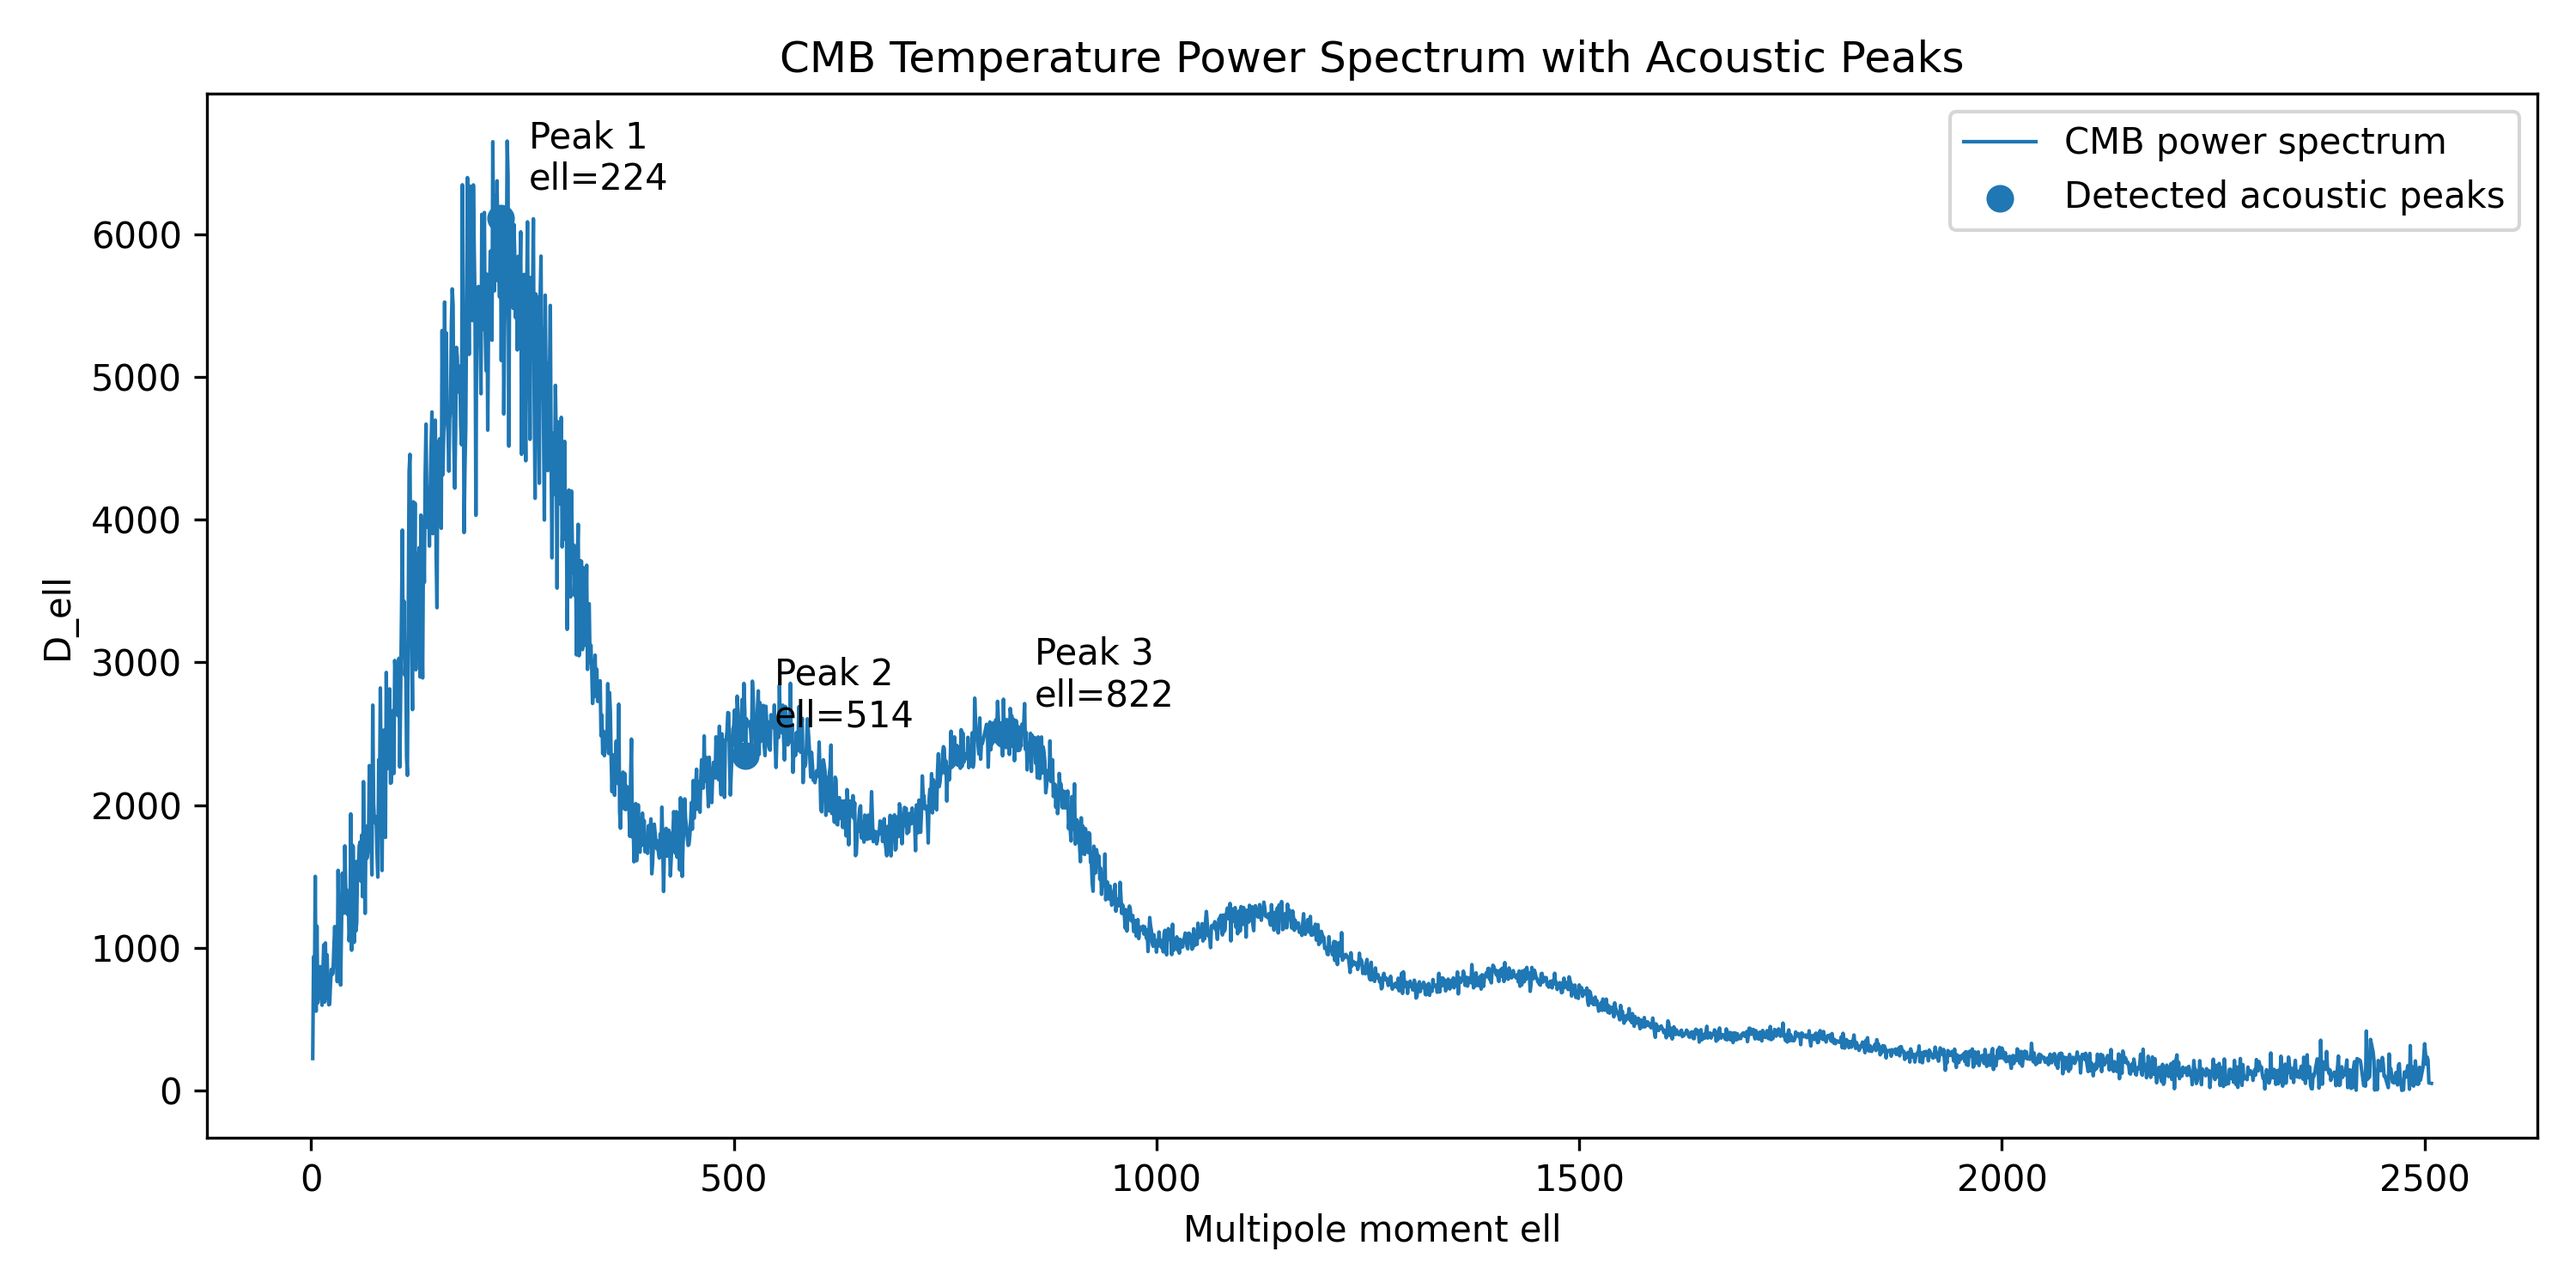
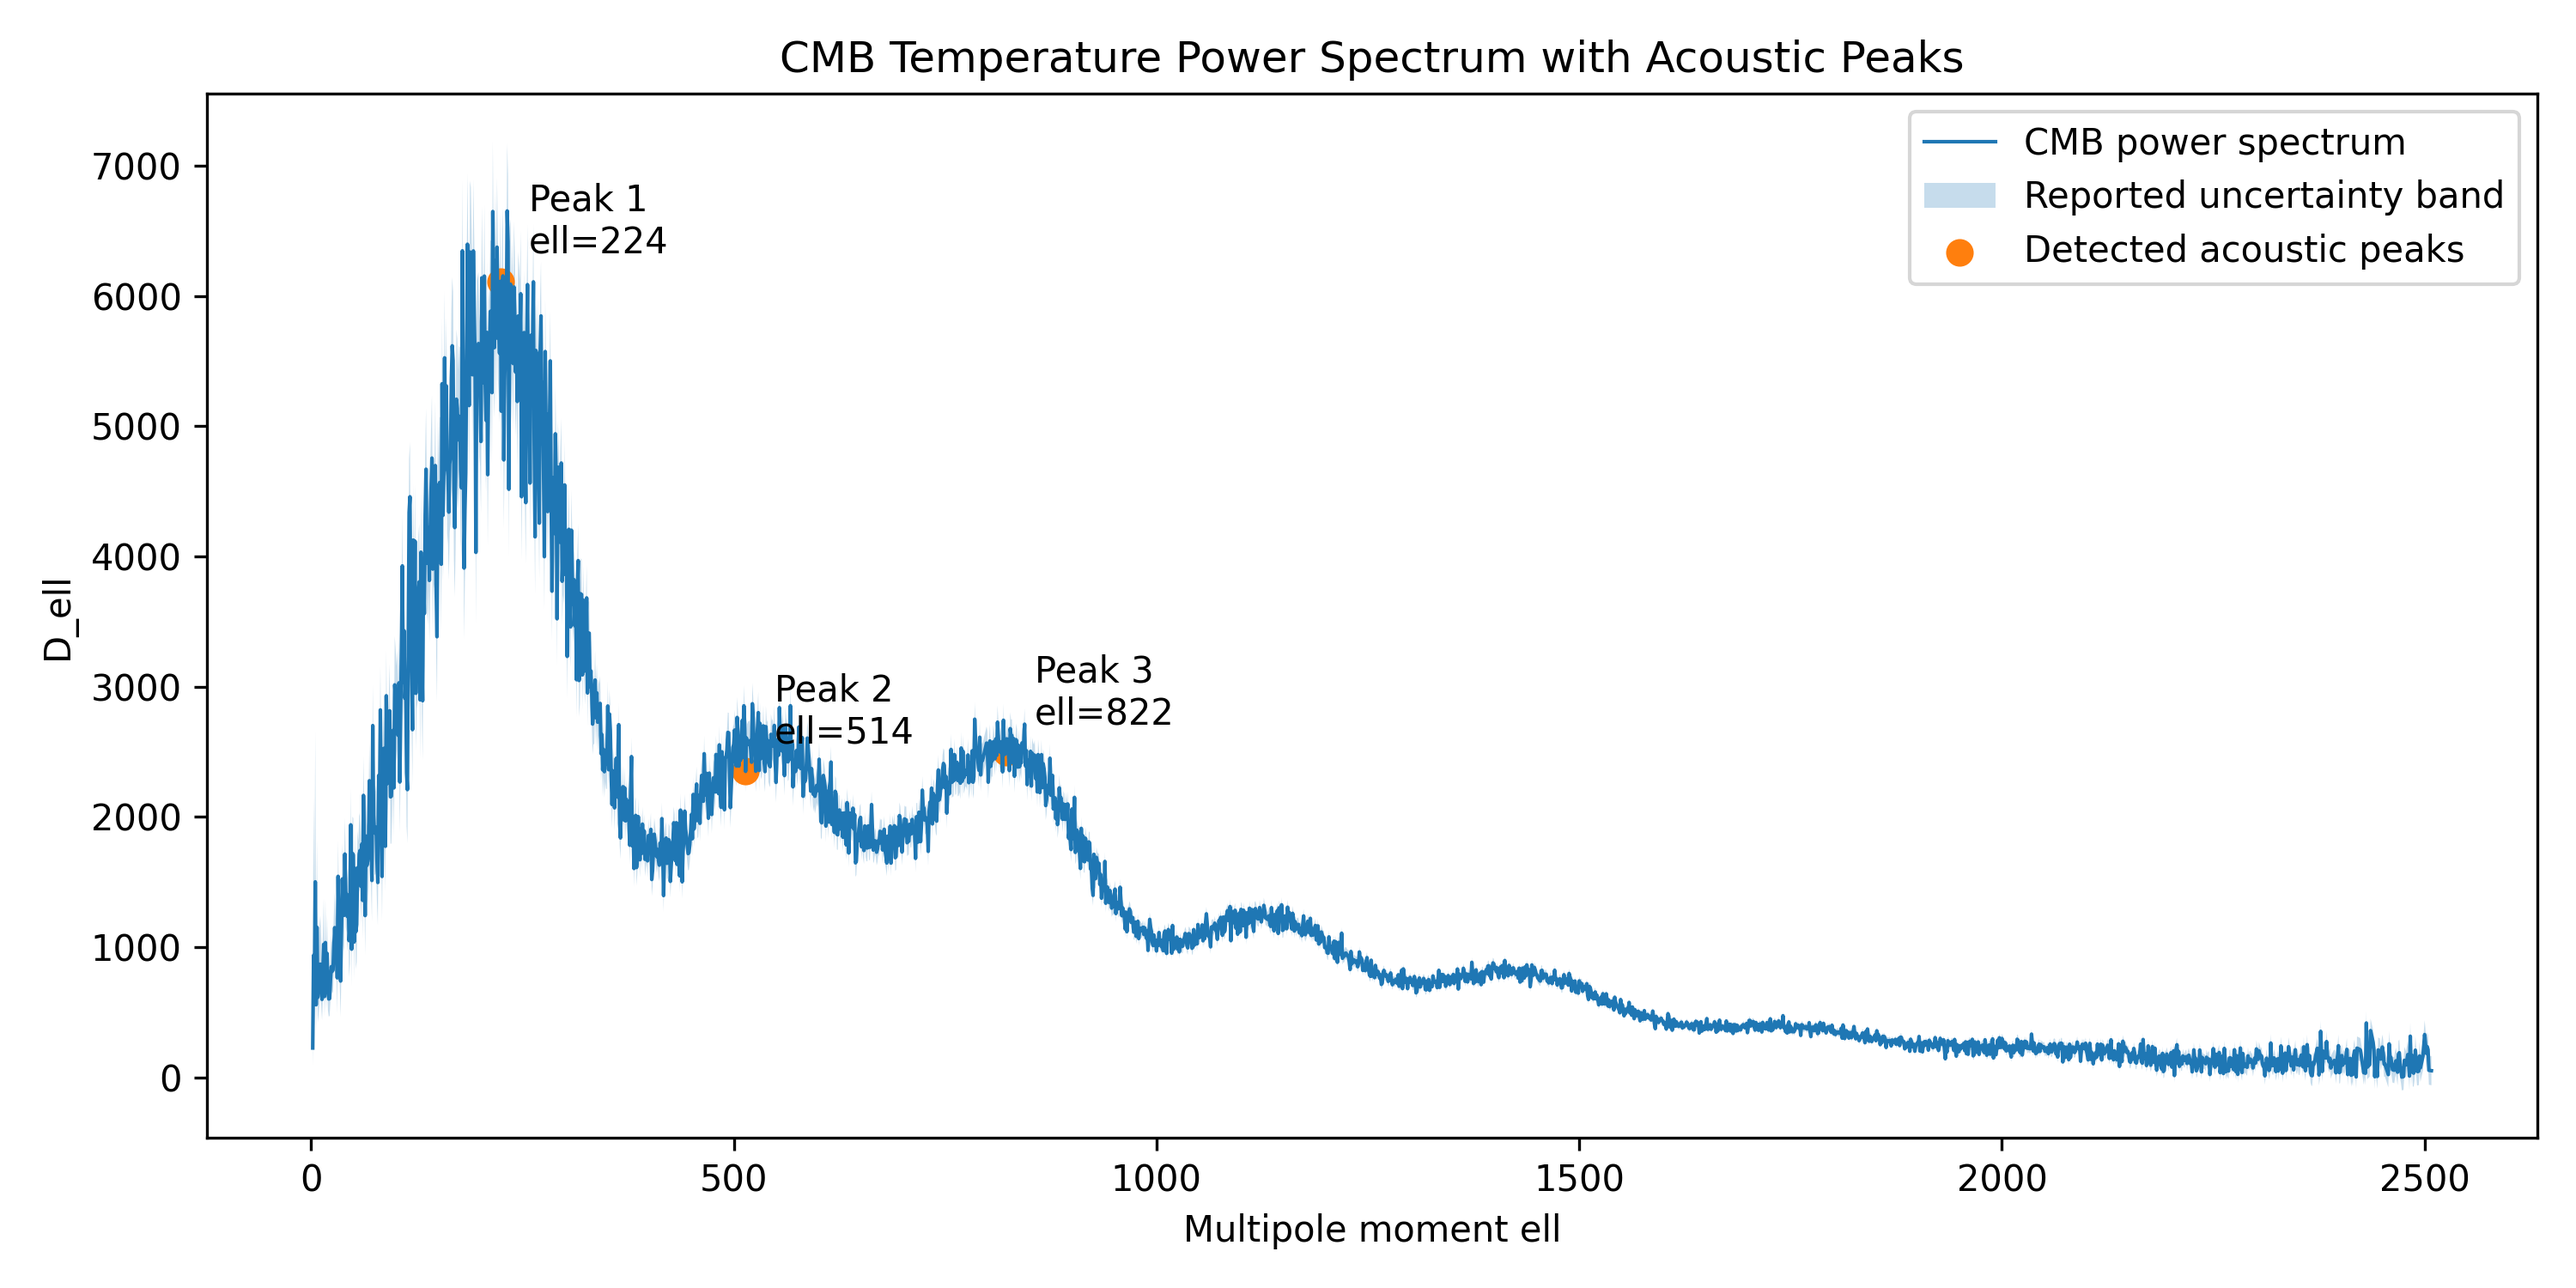
Add uncertainty-aware CMB peak diagnostics

diff --git a/src/main.py b/src/main.py
@@ -72,11 +72,9 @@ def load_spectrum():
     except Exception:
         data = pd.read_csv(path, delim_whitespace=True, comment="#", header=None)
 
-    # If pandas read the whole row as one column, retry as whitespace-separated.
     if len(data.columns) == 1:
         data = pd.read_csv(path, delim_whitespace=True, comment="#", header=None)
 
-    # Normalize column names.
     data.columns = [str(col).strip() for col in data.columns]
 
     lower_cols = {str(col).lower(): col for col in data.columns}
@@ -97,18 +95,13 @@ def load_spectrum():
             dl_col = lower_cols[candidate]
             break
 
+    numeric = data.apply(pd.to_numeric, errors="coerce")
+    numeric = numeric.dropna(axis=1, how="all")
+
     if ell_col is not None and dl_col is not None:
         clean = data[[ell_col, dl_col]].copy()
         clean.columns = ["ell", "D_ell"]
-    elif len(data.columns) >= 2:
-        numeric = data.apply(pd.to_numeric, errors="coerce")
-        numeric = numeric.dropna(axis=1, how="all")
-
-        if len(numeric.columns) < 2:
-            raise ValueError(
-                f"Could not identify numeric ell and D_ell columns in {path}."
-            )
-
+    elif len(numeric.columns) >= 2:
         clean = numeric.iloc[:, :2].copy()
         clean.columns = ["ell", "D_ell"]
     else:
@@ -117,7 +110,18 @@ def load_spectrum():
     clean["ell"] = pd.to_numeric(clean["ell"], errors="coerce")
     clean["D_ell"] = pd.to_numeric(clean["D_ell"], errors="coerce")
 
-    clean = clean.dropna()
+    # Preserve uncertainty columns when the source file has them.
+    # For Planck TT files, extra numeric columns often include lower and upper error values.
+    if len(numeric.columns) >= 4:
+        clean["D_ell_lower_error"] = pd.to_numeric(numeric.iloc[:, 2], errors="coerce").abs()
+        clean["D_ell_upper_error"] = pd.to_numeric(numeric.iloc[:, 3], errors="coerce").abs()
+        clean["D_ell_mean_error"] = (clean["D_ell_lower_error"] + clean["D_ell_upper_error"]) / 2
+    else:
+        clean["D_ell_lower_error"] = np.nan
+        clean["D_ell_upper_error"] = np.nan
+        clean["D_ell_mean_error"] = np.nan
+
+    clean = clean.dropna(subset=["ell", "D_ell"])
     clean = clean.sort_values("ell")
     clean = clean[(clean["ell"] > 0) & (clean["D_ell"] > 0)]
 
@@ -164,6 +168,13 @@ def detect_peaks(data):
         "angular_scale_degrees": acoustic_scale_degrees(ell[peaks])
     })
 
+    if "D_ell_mean_error" in data.columns:
+        peak_table["D_ell_mean_error"] = data["D_ell_mean_error"].to_numpy()[peaks]
+        peak_table["peak_signal_to_uncertainty"] = peak_table["D_ell"] / peak_table["D_ell_mean_error"]
+    else:
+        peak_table["D_ell_mean_error"] = np.nan
+        peak_table["peak_signal_to_uncertainty"] = np.nan
+
     peak_table = peak_table.sort_values("smoothed_D_ell", ascending=False)
     peak_table = peak_table.head(3)
     peak_table = peak_table.sort_values("ell").reset_index(drop=True)
@@ -175,7 +186,27 @@ def detect_peaks(data):
 
 def save_linear_plot(data, peak_table):
     plt.figure(figsize=(10, 5))
+
     plt.plot(data["ell"], data["D_ell"], linewidth=1, label="CMB power spectrum")
+
+    has_uncertainty = (
+        "D_ell_lower_error" in data.columns
+        and "D_ell_upper_error" in data.columns
+        and data["D_ell_lower_error"].notna().any()
+        and data["D_ell_upper_error"].notna().any()
+    )
+
+    if has_uncertainty:
+        lower = data["D_ell"] - data["D_ell_lower_error"]
+        upper = data["D_ell"] + data["D_ell_upper_error"]
+        plt.fill_between(
+            data["ell"],
+            lower,
+            upper,
+            alpha=0.25,
+            label="Reported uncertainty band"
+        )
+
     plt.scatter(peak_table["ell"], peak_table["D_ell"], s=45, label="Detected acoustic peaks")
 
     for _, row in peak_table.iterrows():
@@ -224,6 +255,27 @@ def save_smoothed_plot(data, smoothed, peak_table):
     plt.close()
 
 
+def save_uncertainty_plot(data, peak_table):
+    if "D_ell_mean_error" not in data.columns or not data["D_ell_mean_error"].notna().any():
+        return
+
+    plt.figure(figsize=(10, 5))
+    plt.plot(data["ell"], data["D_ell_mean_error"], linewidth=1, label="Mean D_ell uncertainty")
+    plt.scatter(
+        peak_table["ell"],
+        peak_table["D_ell_mean_error"],
+        s=45,
+        label="Peak uncertainty values"
+    )
+    plt.xlabel("Multipole moment ell")
+    plt.ylabel("Mean D_ell uncertainty")
+    plt.title("CMB Spectrum Uncertainty by Multipole")
+    plt.legend()
+    plt.tight_layout()
+    plt.savefig("outputs/cmb_uncertainty_by_ell.png", dpi=300)
+    plt.close()
+
+
 def main():
     os.makedirs("outputs", exist_ok=True)
 
@@ -259,6 +311,7 @@ def main():
     save_linear_plot(data, peak_table)
     save_log_plot(data, peak_table)
     save_smoothed_plot(data, smoothed, peak_table)
+    save_uncertainty_plot(data, peak_table)
 
     print("Loaded data from:", source_path)
     print("\nDetected acoustic peaks:")

diff --git a/docs/interpretation.md b/docs/interpretation.md
@@ -21,3 +21,11 @@ Peak spacing gives a simple way to describe the repeated acoustic structure of t
 ## Limits of This Project
 
 This project identifies spectrum features but does not perform full cosmological parameter fitting. A complete analysis would require a physical CMB model, likelihood estimation, uncertainty treatment, and comparison with parameters such as baryon density, dark matter density, curvature, and the Hubble constant.
+
+## Uncertainty-Aware Peak Detection
+
+The script preserves reported uncertainty columns when they are available in the CMB spectrum file. The uncertainty band shows the approximate vertical uncertainty around D_ell values.
+
+The peak table includes a peak signal-to-uncertainty estimate. Larger values indicate that a detected peak is large compared with the reported uncertainty at that multipole. This helps separate strong acoustic features from smaller fluctuations.
+
+This is still not a full statistical CMB likelihood analysis. It is a feature-analysis workflow that extracts visible spectrum structure and reports uncertainty-aware diagnostics.

diff --git a/README.md b/README.md
@@ -90,3 +90,18 @@ Install dependencies:
 Run the analysis:
 
     python3 src/main.py
+
+## Uncertainty-Aware Peak Metrics
+
+The analysis preserves reported spectrum uncertainty columns when they are available in the source data. The main CMB spectrum plot includes an uncertainty band, and the peak table includes uncertainty-aware metrics.
+
+Additional output:
+
+    outputs/cmb_uncertainty_by_ell.png
+
+Additional peak-table columns:
+
+- D_ell_mean_error
+- peak_signal_to_uncertainty
+
+These values help distinguish strong acoustic features from lower-confidence fluctuations in the spectrum. This remains a feature-analysis project, not a cosmological parameter fit.
